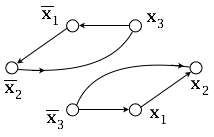
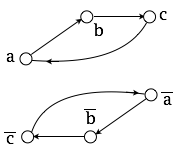
correction of 2SAT

diff --git a/GRAPHS1.tex b/GRAPHS1.tex
@@ -666,38 +666,37 @@ We close with two small examples to illustrate Proposition~\ref{prop:2SAT}
 \begin{enumerate}
 \item
 Fig.~\ref{2SATyes} illustrates $\g(\Phi_1)$, for the formula
-\[ \Phi_1 \ = \ (\bar{x}_{3} \vee \bar{x}_{1}) \ \wedge \
- (x_{1} \vee \bar{x}_{2}) \ \wedge \ (x_{2} \vee x_{3})
+\[ \Phi_1 \ = \ (a \vee \bar{b}) \ \wedge \
+ (b \vee \bar{c}) \ \wedge \ (c \vee \bar{a})
 \]
 The graph has the two strongly connected components illustrated in the
 figure.  One can thereby read off the following satisfying truth-value
-assignment $t$ for formula $\Phi_1$: $t(x_1) = \mbox{\sc false}$;
-$t(x_2) = \mbox{\sc false}$; $t(x_3) = \mbox{\sc true}$.
+assignment $t$ for formula $\Phi_1$: $t(a) = t(b) = t(c) = \mbox{\sc true}$
+or symmetrically $t(a) = t(b) = t(c) = \mbox{\sc false}$.
 \begin{figure}[htb]
 \begin{center}
 \includegraphics[width=0.3\textwidth]{FiguresGraph/2SATyes.png}
-\caption{A portion of the digraph $\g(\Phi_1)$.  The graph's two
-  strong components provide a truth assignment for $\Phi_1$: $t(x_1) =
-  \mbox{\sc false}$; $t(x_2) = \mbox{\sc false}$; $t(x_3) = \mbox{\sc
-    true}$.}
+\caption{The digraph $\g(\Phi_1)$ and its two
+  strong components.}
+  % provide a truth assignment for $\Phi_1$: $t(x_1) =  \mbox{\sc false}$; $t(x_2) = \mbox{\sc false}$; $t(x_3) = \mbox{\sc   true}$.}
 \label{2SATyes}
 \end{center}
 \end{figure}
 
 \item
 Fig.~\ref{2SATno} illustrates $\g(\Phi_2)$, for the formula
-\[ \Phi_2 \ = \ (\bar{x}_{3} \vee \bar{x}_{1}) \ \wedge \                                      
-(\bar{x}_{1} \vee x_{3}) \ \wedge \ (x_{2} \vee x_{3})
+\[ \Phi_2 \ = \ (a \vee \bar{b}) \ \wedge \
+ (b \vee \bar{c}) \ \wedge \ (c \vee \bar{a})
+ \ \wedge \ (a \vee c) \ \wedge \ (\bar{a} \vee \bar{c})
 \]
-Because the graph contains a (directed) path from vertex $x_1$ to
-vertex $\bar{x}_1$, Proposition~\ref{prop:2SAT} assures us that formula
+Because the graph it strongly connected and contains a (directed) path from vertex $a$ to
+vertex $\bar{a}$ and another one from $\bar{a}$ to $a$, Proposition~\ref{prop:2SAT} assures us that formula
 $\Phi_2$ does not admit any satisfying truth-assignment.
 \begin{figure}[h]
 \begin{center}
 \includegraphics[width=0.3\textwidth]{FiguresGraph/2SATno.png}
-\caption{A portion of the digraph $\g(\Phi_2)$.  Because the graph
-  contains  a path from vertex $x_1$ to vertex $\bar{x}_1$,  formula
-  $\Phi_2$ does not admit any satisfying truth-assignment.}
+\caption{The digraph $\g(\Phi_2)$}. 
+% Because the graph  contains  a path from vertex $a$ to vertex $\bar{a}$,  formula  $\Phi_2$ does not admit any satisfying truth-assignment.}
 \label{2SATno}
 \end{center}
 \end{figure}
